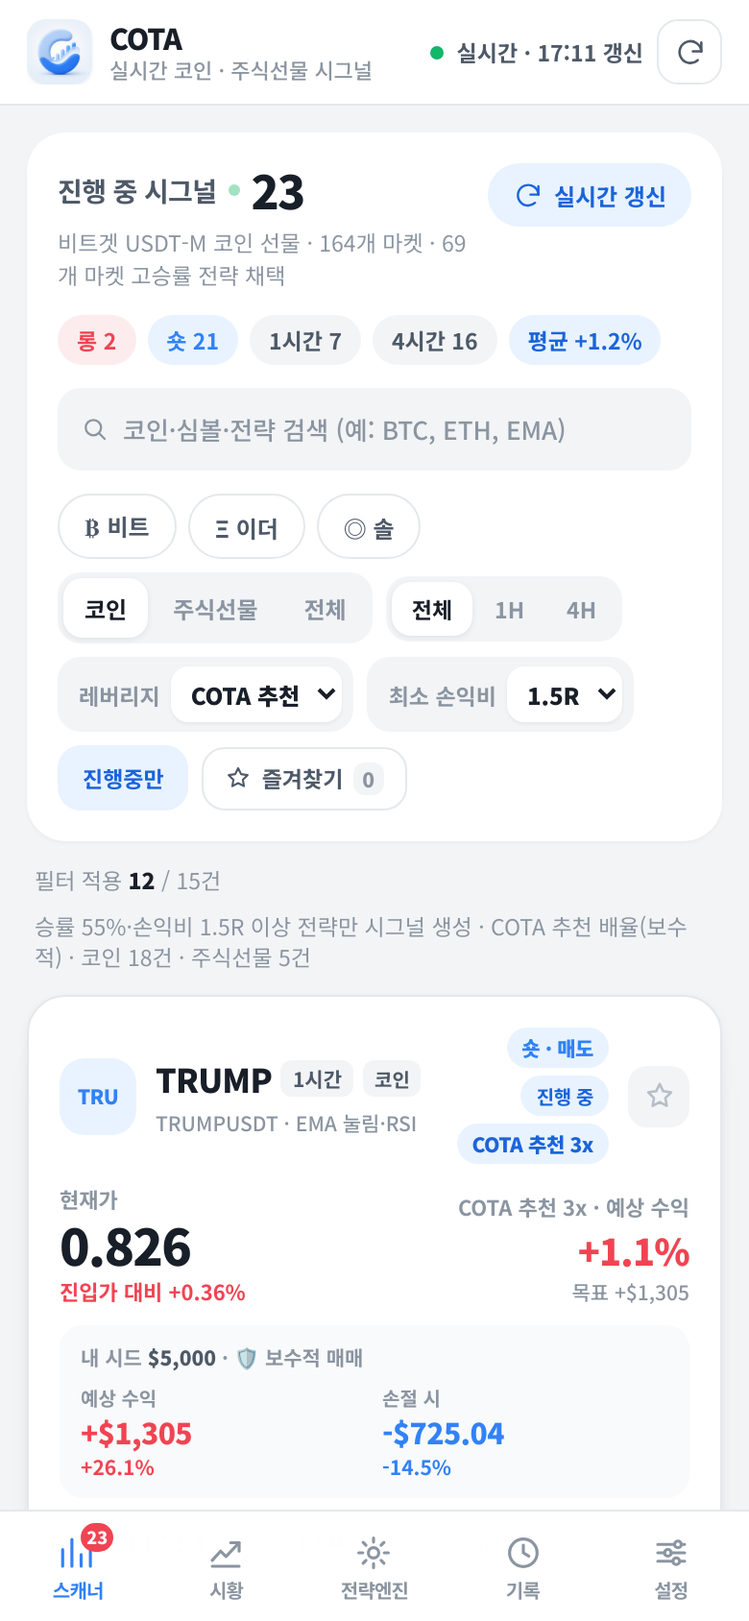
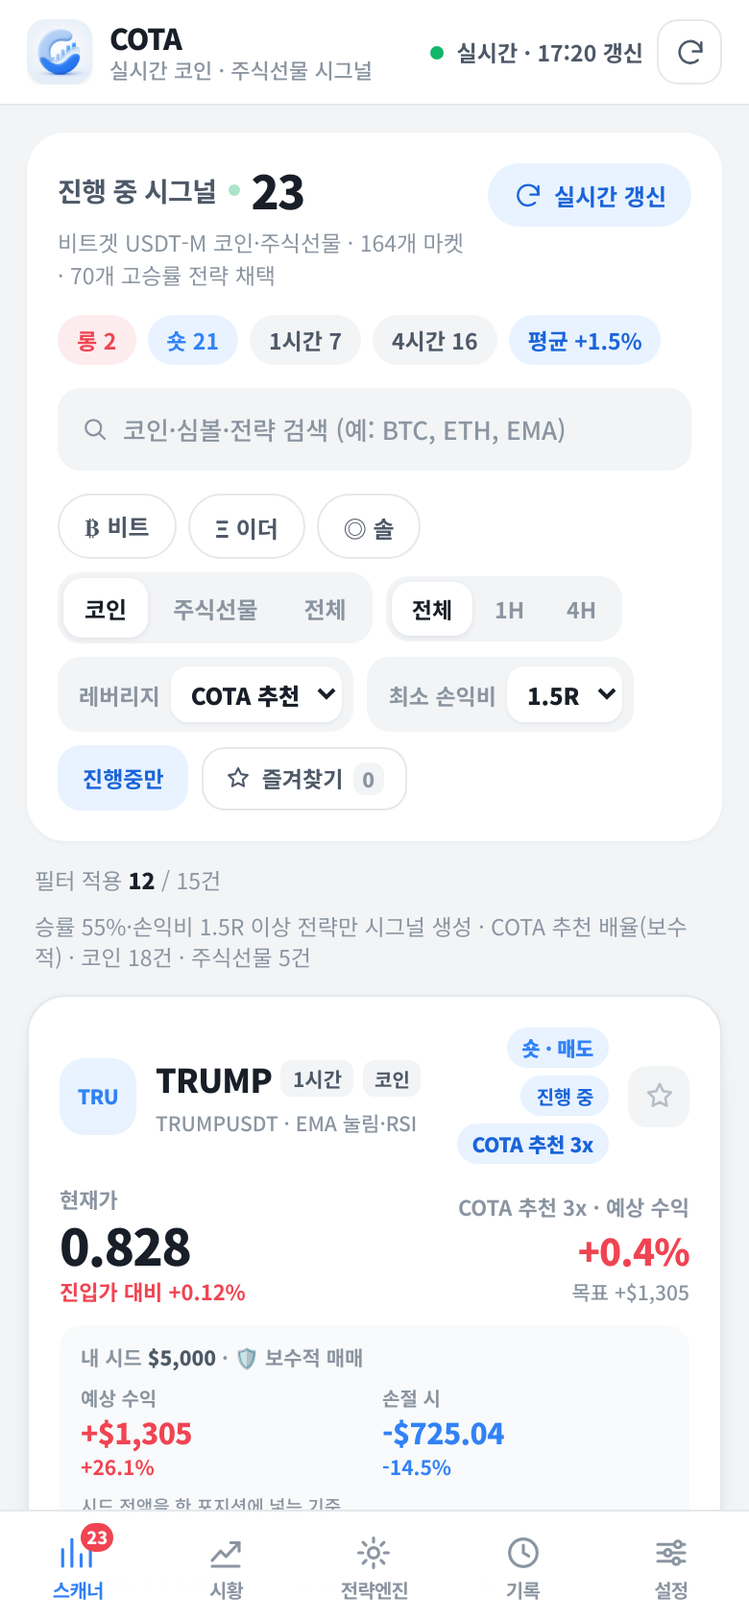
docs(cota): README·스크린샷 갱신 · 시드 손익 기준 안내 문구 추가

diff --git a/src/components/ScannerTab.tsx b/src/components/ScannerTab.tsx
@@ -151,7 +151,7 @@ export function ScannerTab({
               진행 중 시그널 <span className="dot-live" /> <b>{openSignals.length}</b>
             </div>
             <div className="summary-sub">
-              비트겟 USDT-M 코인 선물 · {marketCount}개 마켓 · {qualified}개 마켓 고승률 전략 채택
+              비트겟 USDT-M 코인·주식선물 · {marketCount}개 마켓 · {qualified}개 고승률 전략 채택
             </div>
           </div>
           <button className={`rescan ${scanning ? 'busy' : ''}`} onClick={onRescan} disabled={scanning}>

diff --git a/README.md b/README.md
@@ -1,243 +1,88 @@
-# 📈 비트겟 CRT 시그널 스캐너 (bitget-signal-scanner)
+# COTA — 실시간 트레이딩 시그널
 
-비트겟(Bitget) USDT-M 선물의 **코인 + 주식·ETF 선물 + FX·금·원자재·지수**를 실시간으로 스캔해 CRT·FVG·CISD 등
-6개 매매법으로 시그널을 만들고, 마켓별로 최근 성과가 가장 좋은 전략만 채택하는 적응형 스캐너입니다.
-FX·금 시그널은 **벤티지(Vantage) MT5 호가 오프셋**으로 보정해 실제 주문 화면과 같은 가격으로 볼 수 있습니다. 모든 수치는 비트겟 공개
-API의 실제 캔들로 계산하며 더미 데이터는 쓰지 않습니다.
+비트겟 USDT-M **코인 선물**을 실시간으로 스캔해 고승률 셋업만 골라 주는 모바일 우선 스캐너입니다.
+토스/토스증권 스타일의 라이트 UI, 전면 한글 라벨, 종목별 가격 가독성, 내 시드 기준 COTA 추천 레버리지를 제공합니다.
 
-- 스택: React 18 + TypeScript + Vite (외부 UI 라이브러리 없음, 아이콘·차트·공유카드 모두 직접 구현)
-- 테마: **다크 네온 트레이딩 터미널** — 딥 블랙/네이비 배경(`#050814`~`#0A0F24`) + 사이버 그리드 + 시안/바이올렛
-  오로라 글로우, 다크 글래스모피즘 패널, 네온 시안-에메랄드(롱)/마젠타-레드(숏)/일렉트릭 퍼플(강조)/앰버(EQ·별점)
-- 배포 경로 대응: `vite.config.ts`의 `base: './'` → `/bitget-signal-scanner/` 같은 서브패스에서도 자산 경로 유지
-
-## 📱 안드로이드 앱 (APK)
-
-| 항목 | 내용 |
+| 구분 | 링크 |
 | --- | --- |
+| 웹 (GitHub Pages) | <https://hw3238.github.io/bitget-signal-scanner/> |
 | APK 다운로드 | <https://github.com/hw3238/bitget-signal-scanner/releases/latest/download/bitget-crt-scanner.apk> |
-| 릴리즈 페이지 | <https://github.com/hw3238/bitget-signal-scanner/releases> |
-| 패키지 | `com.hw3238.bitgetscanner` · minSdk 22 / targetSdk 34 · debug 서명 |
+| 현재 버전 | **v1.2.0** (versionCode 3) |
 
-- Capacitor Android 프로젝트(`android/`)로 웹 빌드를 감싼 앱입니다. 앱은 실행할 때 `https://hw3238.github.io/bitget-signal-scanner/`
-  최신 배포본을 불러오므로(`capacitor.config.ts`의 `server.url`), 웹/전략/UI 수정은 **Pages 재배포만으로 앱에 즉시 반영**됩니다.
-- 로딩 실패 시 `assets/public`(내장 dist)로 폴백하고 "온라인 다시 시도" 안내를 띄웁니다.
-- **설정 탭 → 앱 · 업데이트**: 현재 버전·설치된 APK 버전, `🔄 업데이트 확인`(GitHub Releases API), `새로고침(캐시 갱신)`,
-  새 버전 발견 시 APK 다운로드. 새 릴리즈가 있으면 앱 상단에도 업데이트 배너가 뜹니다.
-- PNG 저장은 WebView 제약 때문에 네이티브 플러그인(`AppShellPlugin`)으로 갤러리(`Pictures/CRT-Scanner`)에 저장하고,
-  공유는 안드로이드 공유 시트로 전달합니다. 외부 링크는 시스템 브라우저에서 엽니다.
-- **🔔 핸드폰 알림**: 새 시그널이 감지되면 안드로이드 상단 알림바에 소리·진동으로 표시됩니다(아래 참고).
+## 주요 기능
 
-### 🔔 시그널 핸드폰 알림 (v1.1.0)
+- **스캐너** — 코인 선물 시그널(기본 코인 필터, 주식선물은 필터로 선택). 승률 55%·손익비 1.5R 이상 전략만 채택.
+- **카드** — `롱 · 매수 / 숏 · 매도`, `진입가 · 목표가 · 본전(EQ) · 손절가`, `손익비 1 : n`, `최근 승률`,
+  천단위 콤마 가격, 미니 캔들 차트, 진행률.
+- **COTA 추천 레버리지** — 손절 폭·최근 승률·손익비로 시그널마다 배율을 계산합니다.
+  - 보수적 매매: **2x ~ 5x** (손절 시 시드 손실을 12% 안쪽으로 억제)
+  - 공격적 매매: **10x ~ 25x** (`floor(80 / 손절폭)` 안전 마진을 넘지 않음)
+  - 카드에 `COTA 추천 Nx` 배지 + 내 시드 기준 **예상 수익(+)·손절 손실(-)** 표시
+  - 레버리지 선택: `COTA 추천`(기본) 또는 `5x · 10x · 20x · 50x` 고정
+- **첫 실행 온보딩** — 투자 시드($100/$500/$1,000/$5,000 프리셋)와 매매 성향(보수적/공격적)을 받아
+  `localStorage('cota.profile.v1')`에 저장합니다. 설정 탭 `💼 내 투자 프로필`에서 언제든 다시 설정할 수 있습니다.
+- **시황** — 코인·주식선물 상승/하락/거래대금/펀딩비 TOP.
+- **전략엔진** — 6개 매매법 실시간 백테스트 순위, 자동 교체 로그.
+- **기록** — 탐지 이후 실제 캔들로 목표 달성/손절 종료를 검증한 추적 기록.
+- **설정** — 🔔 핸드폰 알림(비트·이더·솔 / 주요 코인 / 전체 종목), ntfy 외부 푸시(`bgss-hw3238-9f4k2m`),
+  레버리지 모드·최소 손익비·자동 갱신, 앱 버전/업데이트.
+- **공유 카드** — 라이트 COTA 카드 PNG 저장/공유(진입가·목표가·손절가·손익비·COTA 추천 배지).
 
-- **네이티브 알림**: `AppShellPlugin`에 알림 채널 `bitget_signals`(중요도 `IMPORTANCE_HIGH`, 기본 알림음·진동 패턴)를 만들고
-  `notifySignal({ title, body, id })` 로 알림바에 표시합니다. 알림을 누르면 `PendingIntent` 로 앱이 열립니다.
-  Android 13+ 는 `POST_NOTIFICATIONS` 런타임 권한을 앱 첫 실행(알림 켜짐) 때 요청하고, 웹은 `Notification API` 로 폴백합니다.
-- **설정 탭 → 🔔 핸드폰 알림**: 알림 ON/OFF(기본 ON, localStorage 저장), 알림 대상(`주력 3종목` 금·유로·비트 / `FX·금 전체` /
-  `전체 종목`), **알림 테스트**(즉시 `[테스트] XAUUSD+ 1시간 롱 시그널 감지` 알림), 선택형 **ntfy 외부 푸시** 토픽 칸.
-- **ntfy**: 기본 전용 토픽 `bgss-hw3238-9f4k2m`(수정·비우기 가능). 값이 있으면 같은 알림을 `https://ntfy.sh/<토픽>` 으로도
-  `fetch` POST 합니다(제목은 `?title=` 파라미터). 비우면 호출하지 않습니다. 테스트 알림도 로컬 알림과 함께 전송합니다.
-- **중복 방지**: `symbol|tf|side|detectedAt` 키를 `localStorage`(`bgss.notified.v1`)에 기록해 60초 자동 갱신마다 같은 시그널이
-  다시 울리지 않게 하고, 앱을 켠 뒤 첫 스캔에 이미 떠 있던 시그널은 알림 없이 '이미 본 것'으로 기록합니다.
-
-### APK 빌드(로컬)
+## 개발
 
 ```bash
-# JDK 17 + Android SDK(platforms;android-34, build-tools;34.0.0) 필요
-export JAVA_HOME=<jdk17> ANDROID_HOME=<android-sdk>
+npm install
+npm run dev        # http://127.0.0.1:5173
+npm run build      # tsc + vite build → dist/
+```
+
+### 검증 스크립트
+
+```bash
+npm run build
+node scripts/toss-ui-check.mjs      # 5탭·코인 집중·한글화·가격·온보딩·COTA 추천·공유카드 (스크린샷 18~22)
+node scripts/notify-check.mjs       # 알림 로직 + 설정 UI
+node scripts/favorites-check.mjs    # 즐겨찾기·검색·더보기·기록
+node scripts/pages-check.mjs        # /bitget-signal-scanner/ 서브패스 배포 경로
+node scripts/live-check.mjs         # 라이브 Pages 검증
+node scripts/live-notify-check.mjs  # 라이브 알림 UI 검증
+```
+
+### APK 빌드 (로컬)
+
+```bash
+# JDK 17 + Android SDK(platforms;android-34, build-tools;34.0.0)
 npm run build && npx cap sync android
 cd android && ./gradlew assembleDebug   # → app/build/outputs/apk/debug/app-debug.apk
 ```
 
-> GitHub App 연결에는 `workflows` 권한이 없어 `.github/workflows/` 푸시가 거부됩니다. CI 빌드가 필요하면 저장소
-> Settings에서 Actions 권한을 켜고 워크플로를 직접 추가하세요.
-
 ### 새 버전 배포 순서
 
-1. `src/lib/update.ts`의 `APP_VERSION`, `package.json`의 `version`, `android/app/build.gradle`의 `versionCode`·`versionName`을 올립니다.
+1. `src/lib/update.ts`의 `APP_VERSION`, `package.json`의 `version`, `android/app/build.gradle`의
+   `versionCode`·`versionName`을 올립니다.
 2. `npm run build` → `npx cap sync android` → `cd android && ./gradlew assembleDebug`.
-3. `dist/`를 `gh-pages` 브랜치에 게시(Pages 반영)하고 앱 APK를 새 태그 릴리즈에 첨부합니다.
-   설치된 앱의 **설정 → 앱 · 업데이트**가 GitHub Releases API로 새 버전을 감지해 다운로드 버튼을 띄웁니다.
+3. `./scripts/deploy-gh-pages.sh`로 `dist/`를 `gh-pages` 브랜치에 게시합니다.
+4. APK를 새 태그 릴리즈에 `bitget-crt-scanner.apk` 이름으로 첨부합니다(파일명 유지 → latest 다운로드 URL 호환).
 
-## 실행
+## 구조
 
-```bash
-export PATH="$HOME/.local/node/node-v22.14.0-linux-x64/bin:$PATH"
-npm install
-npm run dev      # http://127.0.0.1:5173
-npm run build    # tsc + vite build → dist/
-npm run preview  # http://127.0.0.1:4173
+```
+src/
+  components/   SignalCard · ScannerTab · MarketTab · EngineTab · HistoryTab · SettingsTab
+                ShareModal · OnboardingModal · MiniCandles · BottomNav · shareCard(canvas)
+  engine/       backtest · strategies · indicators · universe(코인 주력+주식 워치리스트)
+  hooks/        useScanner · useFavorites
+  lib/          format(가격·손익비) · profile(시드·추천 레버리지) · notify · storage · update · native
+  api/          bitget(공개 USDT-M 계약·티커·캔들)
 ```
 
-## 화면
+## 데이터
 
-하단 내비게이션 6탭: **스캐너 | FX | 시황 | 전략엔진 | 기록 | 설정** (390px 폭에서도 겹침·줄바꿈 없이 한 줄).
-스캐너·FX 탭 아이콘에는 현재 활성(진행중) 시그널 수 배지가 붙습니다.
+- 비트겟 공개 API: `GET /api/v2/mix/market/contracts|tickers|candles?productType=USDT-FUTURES`
+- 1H/4H 200봉 실데이터를 최근 60봉 기준으로 백테스트해 승률·손익비 미달 전략은 즉시 교체합니다.
 
-| 탭 | 내용 |
-| --- | --- |
-| 스캐너 | 코인·주식선물 전용 — TS 발생 종목 카운터(롱/숏/1시간/4시간), **₿ 비트 퀵 필터**, **종목·심볼·전략 검색**, 전체·코인·주식선물 필터, 레버리지(5/10/20/50x), 최소 손익비(1.2~2.5R), 진행중/종료, **⭐ 즐겨찾기 모아보기**, 12건씩 펼치는 **이전 시그널 더보기**, 시그널 카드(⭐ 즐겨찾기·미니 캔들 차트·목표/EQ/진입/무효·진행 게이지·전략 승률) |
-| FX | FX·금·원자재·지수 + **비트코인(BTCUSD+)** 전용 — 발송 시그널 수·롱/숏/1H/4H·**선택 랏 합계 손익**, 검색, **🥇 금 · 💶 유로 · ₿ 비트 퀵 필터**, 타임프레임(전체/1H/4H), **랏(Lot) 선택기(0.01~1.00)**, 최소 손익비, 진행중/종료, ⭐ 즐겨찾기, **Vantage 호가 보정 미니 바**, 카드에 `0.10 Lot 수익 +$…`·목표 `+$…`·무효 `-$…`·`1포인트 $…` 표시 |
-| 시황 | 코인/주식선물/**FX·금** 상승·하락 TOP, 거래대금 TOP, 펀딩비 극단, 상승·하락 종목 수·평균 펀딩비·24h 거래대금 |
-| 전략엔진 | 6개 매매법 실시간 순위(채택 마켓·채택 승률·표본·손익비·기대 수익), 자동 교체 로그, 백테스트 재실행 |
-| 기록 | 탐지된 시그널의 적중/무효/진행 추적(최대 400건 보관), **종목·전략 검색**, 15건씩 펼치는 **이전 기록 더보기**, 실현·미실현 레버리지 수익률 |
-| 설정 | 레버리지·**FX 탭 랏(Lot)**·최소 손익비·자동 갱신 주기(30/60/120초·꺼짐)·알림음, **FX·금 종목별 벤티지 호가 보정 표**, **Twelve Data API 키(선택)**, 엔진 기준, 데이터 초기화, **앱 버전·업데이트 확인·캐시 갱신** |
+## 주의
 
-시그널 카드를 탭하면 **다크 네온 공유 카드**(캔버스 렌더링)가 열리고 PNG로 저장하거나 Web Share로 보낼 수
-있습니다.
-
-### ⭐ 즐겨찾기 · 검색 · 이전 시그널 더보기
-
-- 카드 우측 상단 **⭐ 버튼**(공유 모달 안에도 있음)으로 시그널을 찜합니다. 버튼 클릭은 `stopPropagation()`으로
-  공유 카드를 열지 않고 즉시 토글되며, 활성 상태는 네온 골드(`#FFD166`) 글로우로 표시됩니다.
-- 즐겨찾기는 `localStorage`의 `bgss.favorites.v1`에 저장되어 새로고침·60초 자동 갱신 후에도 유지됩니다. 키는
-  `심볼|타임프레임|방향|감지봉 시각`이라 스캔이 반복돼도 같은 시그널을 가리킵니다.
-- **⭐ 즐겨찾기 (N)** 필터를 켜면 진행중/종료·자산·타임프레임·최소 손익비와 무관하게 찜한 시그널을 모두 모아
-  보여줍니다. 현재 스캔에 살아 있으면 최신 현재가·레버리지 수익률·진행도로 갱신되고, 스캔에서 사라진 시그널은
-  마지막 스냅샷 카드(보관된 스냅샷)로 남아 확인·해제할 수 있습니다.
-- 검색창은 심볼(`BTCUSDT`)·종목명·전략명(`EMA`, `CRT`, `SuperTrend`)·태그를 대소문자 구분 없이 실시간으로
-  걸러주며, 공백으로 여러 단어를 넣으면 AND 조건입니다. 입력값이 있으면 우측 `×`로 즉시 초기화됩니다.
-- 채택 전략의 시그널 중 **진행중(최근 10봉)** + **종료(적중/무효, 최근 160봉)** 을 마켓당 최대 18건까지 모아,
-  스캐너는 12건씩 `이전 시그널 더보기 (+N건)`, 기록 탭은 15건씩 `이전 기록 더보기 (+N건)`으로 계속 펼쳐 봅니다.
-
-## 데이터 소스 (Bitget 공개 API · CORS 허용)
-
-| 용도 | 엔드포인트 |
-| --- | --- |
-| 계약 목록(890개) | `GET /api/v2/mix/market/contracts?productType=USDT-FUTURES` |
-| 실시간 티커 | `GET /api/v2/mix/market/tickers?productType=USDT-FUTURES` |
-| 캔들 200봉 | `GET /api/v2/mix/market/candles?productType=USDT-FUTURES&symbol=..&granularity=1H\|4H&limit=200` |
-
-- `granularity`는 실제 호출로 검증한 대문자 포맷(`1H`/`4H`)만 사용합니다.
-- 계약의 `isRwa` 플래그로 주식·ETF 선물을 구분하고, 원자재·금속·외환·지수(XAU, XAG, CL, COPPER, EURUSD,
-  NDX100, HSI …)는 `fx` 카테고리로 모아 주식선물 목록과 섞지 않습니다. 표기 소수점은 계약의 `pricePlace`를 씁니다.
-- 스캔 유니버스 = **주력 3종목(XAUUSDT·EURUSDUSDT·BTCUSDT, 항상 맨 앞)** + FX·금·원자재·지수 21종목 +
-  주식선물 주요 43종목 + 거래대금 상위 코인 30종목, 각 1H/4H → 마켓 약 95개·캔들 190건. 요청은 워커 3개·간격
-  165ms로 제한하고 429 발생 시 지수 백오프로 재시도합니다. 캔들 갱신 주기 기본 60초.
-
-## FX·금 스캐너 · Vantage 호가 보정
-
-### 스캔 심볼 (벤티지 MT5 표기)
-
-| 비트겟 계약 | 표기 | 비고 |
-| --- | --- | --- |
-| `XAUUSDT` | **XAUUSD+** | 금 현물 프록시 (주력) |
-| `EURUSDUSDT` | **EURUSD+** | 유로/달러 (주력) |
-| `BTCUSDT` | **BTCUSD+** (스캐너 탭은 코인 `BTC`) | 비트코인 (주력 · FX 탭에서도 표시) |
-| `XAGUSDT` · `XPTUSDT` · `XPDUSDT` | `XAGUSD+` · `XPTUSD+` · `XPDUSD+` | 은·백금·팔라듐 |
-| `XAUTUSDT` · `PAXGUSDT` | `XAUT+` · `PAXG+` | 금 토큰(Tether/Paxos Gold) |
-| `EURUSD` · `GBPUSD` · `USDJPY` · `USDBRL` | `EURUSD+` · `GBPUSD+` · `USDJPY+` · `USDBRL+` | FX |
-| `CLUSDT` · `BZUSDT` · `NATGASUSDT` · `COPPERUSDT` | `USOIL+` · `UKOIL+` · `NATGAS+` · `COPPER+` | 원자재 |
-| `DXYUSDT` | `DXY+` | 달러 인덱스 |
-| `NDX100` · `SP500` · `JP225` · `HSI` · `KR200` | `NAS100+` · `US500+` · `JP225+` · `HK50+` · `KR200+` | 지수 |
-
-- **FX 탭**에서만 이 카테고리를 모아 봅니다(스캐너 탭은 코인·주식선물 전용). FX 카드는 `pricePlace` 기준 고정 소수점
-  (EURUSD 4자리, USDJPY·XAUUSD 2자리, 지수 0~2자리)으로 표기합니다.
-- **주력 퀵 필터**: FX 탭의 🥇 금(`XAU`) · 💶 유로(`EURUSD`) · ₿ 비트(`BTCUSD`), 스캐너 탭의 ₿ 비트(`BTC`). 누르면
-  검색어·필터가 한 번에 적용되고(진행중 시그널이 없으면 종료 셋업까지 표시) 다시 누르면 해제됩니다.
-- **비트코인은 한 번만 스캔해 두 탭이 함께 씁니다.** 스캐너 탭은 비트겟 `BTCUSDT` 캔들·시그널을 배수(x) 기준 `BTC`
-  카드로, FX 탭은 같은 데이터를 `BTCUSD+`(벤티지 호가 보정 + 랏 달러 손익) 카드로 보여줍니다 — 추가 API 호출 없음
-  (`src/lib/fxview.ts`).
-
-### 랏(Lot) 손익 — FX 탭은 배수(x) 대신 계약 크기 기준 달러
-
-FX 탭의 카드·공유 카드에는 `레버리지 10x` 같은 배수 표현이 나오지 않고, 선택한 랏과 **MT5·Vantage 표준 계약
-크기(Contract Size)** 로 계산한 달러 손익이 표시됩니다. 랏 프리셋은 `0.01 / 0.05 / 0.10(기본) / 0.20 / 0.50 / 1.00`
-이며 `localStorage`(`bgss.settings.v1.fxLot`)에 저장됩니다.
-
-| 종목군 | 1 Lot 계약 크기 | 달러 손익식 |
-| --- | --- | --- |
-| `XAUUSD+` `XAUT+` `PAXG+` `XPTUSD+` `XPDUSD+` | 100 oz | 가격차 × 100 × lot |
-| `XAGUSD+` | 5,000 oz | 가격차 × 5,000 × lot |
-| `COPPER+` | 25,000 lbs | 가격차 × 25,000 × lot |
-| `USOIL+` `UKOIL+` | 1,000 배럴 | 가격차 × 1,000 × lot |
-| `NATGAS+` | 10,000 MMBtu | 가격차 × 10,000 × lot |
-| `EURUSD+` `GBPUSD+` (USD 견적) | 100,000 | 가격차 × 100,000 × lot |
-| `USDJPY+` `USDBRL+` (USD가 기초) · `EURJPY+` `GBPJPY+` (JPY 견적) | 100,000 | (가격차 ÷ 청산가) × 100,000 × lot |
-| `NAS100+` `US500+` `JP225+` `HK50+` `KR200+` `DXY+` | 1 계약 | 가격차(포인트) × 1 × lot (1p = $1) |
-| `BTCUSD+` `BTCUSD` `BTC` | 1 BTC | 가격차 × 1 × lot (예: $1,000 이동 × 0.10 Lot = $100.00) |
-
-- 계산은 `src/utils/lot.ts`의 `lotSpec()`/`lotCalc()` 하나로 카드·공유 카드가 함께 씁니다.
-- 카드 우측 상단 `0.10 Lot 수익 +$125.00`, 목표/무효 아래 `+$…`/`-$…`, 하단 `0.10 Lot · 1포인트 $0.10 · 목표 250
-  포인트 · 손절 85 포인트 · 1 Lot = 100 oz` 스트립으로 계약 크기와 핍 가치를 함께 보여줍니다.
-- 다크 공유 카드(`ShareCardModal` → `drawShareCard(..., lot)`)도 FX 시그널이면 상단 `0.10 Lot` 배지, `0.10 Lot
-  +$125.00`, 목표/반익 EQ/무효 박스의 달러 손익, 푸터 계약 크기로 렌더링합니다.
-
-### 벤티지 호가 보정(오프셋)
-
-- FX 탭 상단 미니 바 또는 **설정 → FX·금 · 벤티지 호가 보정**에서 종목별 오프셋을 입력합니다.
-  목록 맨 위는 주력 3종목(`XAUUSD+`, `EURUSD+`, `BTCUSD+` — 저장 키는 기존 `BTC`)으로 고정되어 있습니다.
-  `BTCUSD+` 카드·공유 카드는 이 `★ BTCUSD+` 입력을 그대로 씁니다(`src/lib/offset.ts`의 별칭).
-- 입력 즉시 카드와 다크 공유 카드의 **현재가·진입가·목표가·EQ·무효가**가 같은 값만큼 이동합니다. 가격 차이의
-  비율인 **손익비·R배수는 그대로**이고, 수익률(%)만 보정된 진입가 기준으로 다시 계산됩니다.
-- 설정 탭에서는 `MT5가 입력` 칸에 벤티지 화면의 현재가를 그대로 넣으면 `오프셋 = MT5가 − 비트겟가`로 계산됩니다.
-- 값은 `localStorage`(`bgss.settings.v1.fxOffsets`)에 저장되어 새로고침·자동 갱신 후에도 유지되고, `전체 초기화`로
-  한 번에 지울 수 있습니다.
-
-### Twelve Data 보조 페어 (선택)
-
-- 설정 → **Twelve Data**에 무료 API 키를 넣으면 `AUD/USD`·`USD/CAD`·`USD/CHF`·`NZD/USD`·`EUR/JPY`·`GBP/JPY`를
-  1H/4H로 함께 스캔합니다. 키가 비어 있으면 호출하지 않고 비트겟 실시간 FX·금 피드만 사용합니다.
-- 무료 플랜 분당 8회 제한을 지키기 위해 요청을 **7.8초 간격·60초 창 8회**로 직렬화하고, 1H 캔들 1회만 받아
-  4H를 로컬 리샘플링하며, 페어당 5분 캐시를 둡니다. 보조 페어 스캔은 본 스캔을 막지 않고 뒤에서 진행됩니다.
-
-## 엔진
-
-### 전략 6종 (`src/engine/strategies.ts`)
-
-1. **CRT + FVG + CISD** — 20봉 레인지 스윕 + FVG/구조전환 확인, 진입은 레인지 바깥 45% 구간에서만
-2. **Liquidity Sweep + Order Block** — 30봉 유동성 스윕 후 오더블록 리테스트, EMA50 추세 정렬
-3. **EMA 20/50 Pullback + RSI Divergence** — 추세 방향 EMA20 눌림 + RSI 다이버전스/회복
-4. **Bollinger Squeeze + Volume Breakout** — 밴드 폭 하위 30% 수축 후 거래량 1.35배 돌파
-5. **EQ Mean Reversion + Engulfing** — 30봉 스윙 EQ(0.5)에서 장악형 반전
-6. **SuperTrend / Donchian Momentum** — SuperTrend 전환 또는 돈치안 20 돌파
-
-### 백테스트·판정
-
-- 각 마켓의 실제 캔들 200봉에 6개 전략을 전부 돌려 1건씩 트레이드로 기록(중복 진입 방지, 최대 42봉 판정).
-- 목표/무효 도달 여부로 적중·무효 판정, 같은 봉에서 동시 도달 시 **무효 우선**(보수적).
-- 워크포워드: 과거 구간(최근 60봉 이전) 1위 전략을 최근 60봉에서 다시 채점 → 승률 55%·손익비 1.5R·표본
-  2건을 못 넘으면 **현재 최고 성과 전략으로 즉시 교체**하고 교체 로그(시각·마켓·이전/신규 전략·사유)를 남깁니다.
-- 시그널은 채택 전략이 최근 10봉 안에 낸 셋업만 노출하며, 진입 손익비가 사용자가 정한 최소 손익비 미만이면 제외합니다.
-- 코인·주식선물 카드의 레버리지 수익률 = (가격 변동 ÷ 진입가) × 배율. FX 카드는 배수 대신 랏(Lot) 달러 손익. 기록
-  탭의 누적 수익률은 무효가까지 거리(%)를 가중해 합산합니다.
-
-## 검증
-
-```bash
-npm run build
-node scripts/lot-check.mjs    # 랏 계약 크기·핍 가치·비례 단위 검증(esbuild로 src/utils/lot.ts 번들 후 24종목 케이스 · BTCUSD+ 1 Lot = 1 BTC 포함)
-LD_LIBRARY_PATH=/workspace/.local/sysroot/root/usr/lib/x86_64-linux-gnu \
-PLAYWRIGHT_BROWSERS_PATH=$HOME/.cache/ms-playwright node scripts/capture.mjs      # 390×844 + 1280×800, 콘솔 에러 수집, PNG 저장 검증
-LD_LIBRARY_PATH=/workspace/.local/sysroot/root/usr/lib/x86_64-linux-gnu \
-PLAYWRIGHT_BROWSERS_PATH=$HOME/.cache/ms-playwright node scripts/fx-lot-check.mjs  # 6탭 레이아웃·FX 탭 랏 표시·FX 탭 BTCUSD+ 랏·호가 보정 연동·0.01↔0.10↔1.00 비례·공유 카드·소수점/호가 보정/시황/설정 회귀
-LD_LIBRARY_PATH=/workspace/.local/sysroot/root/usr/lib/x86_64-linux-gnu \
-PLAYWRIGHT_BROWSERS_PATH=$HOME/.cache/ms-playwright node scripts/pages-check.mjs    # /bitget-signal-scanner/ 서브패스 검증
-node scripts/favorites-check.mjs                                                  # ⭐ 즐겨찾기·검색·더보기·새로고침 유지·보관 스냅샷 검증
-LD_LIBRARY_PATH=/workspace/.deps/root/usr/lib/x86_64-linux-gnu \
-node scripts/notify-check.mjs                                                      # 🔔 알림 로직(중복 방지·대상 필터) + 설정 UI·테스트 알림·ntfy 전송·과거 시그널 미알림·새로고침 중복 0건
-node scripts/live-check.mjs                                                        # 라이브 Pages 반영 확인
-LD_LIBRARY_PATH=/workspace/.local/sysroot/root/usr/lib/x86_64-linux-gnu \
-PLAYWRIGHT_BROWSERS_PATH=$HOME/.cache/ms-playwright node scripts/live-btc-check.mjs  # 라이브 FX 탭 BTCUSD+ 랏·퀵 필터·호가 보정 칩 집중 검증
-```
-
-결과 스크린샷은 `docs/screens/`에 저장됩니다(`01-scanner.png`, `02-dark-card.png`, `03-strategy-engine.png`,
-`04-market.png`, `05-history.png`, `06-desktop.png`, `07-pages-subpath.png`, `08-settings.png`,
-`09-live-pages.png`, `02-dark-card-export.png`). FX 탭·랏 화면은 `14-fx-tab-lot.png`(FX 탭 + 랏 선택기),
-`14-fx-card-lot.png`(카드의 `0.10 Lot 수익`·`+$` 손익), `14-fx-share-lot.png`(FX 공유 카드 랏 표시),
-`14-fx-tab-lot-desktop.png`(데스크톱), `13-settings-fx.png`(종목별 보정 표), `15-fx-btc-lot.png`(FX 탭 `BTCUSD+` 카드 · `0.10 Lot 수익` · `1 Lot = 1 BTC`), `15-live-fx-btc.png`(라이브 Pages 동일 화면),
-`16-settings-notify.png`(설정 탭 🔔 핸드폰 알림 — 알림 토글·대상·테스트·ntfy 토픽)입니다.
-
-## 배포 (GitHub Pages)
-
-- 라이브: **https://hw3238.github.io/bitget-signal-scanner/** (브랜치 `gh-pages` / 루트, HTTP 200·실데이터 렌더링 확인)
-- 소스: https://github.com/hw3238/bitget-signal-scanner (`main`)
-- 재배포는 아래 스크립트로 `dist` 내용을 `gh-pages` 루트에 올립니다.
-
-```bash
-./scripts/deploy-gh-pages.sh hw3238/bitget-signal-scanner
-```
-
-## 면책
-
-정보 도구입니다. 투자 권유가 아니며 표시된 승률·수익률은 과거 데이터 통계로 미래 성과를 보장하지 않습니다.
-레버리지 거래는 원금 전액을 잃을 수 있습니다.
+COTA는 비트겟 공개 시세를 계산해 과거 통계를 보여주는 **정보 도구**입니다. 투자 권유가 아니며,
+표시된 승률·수익률은 과거 데이터 기준으로 미래 성과를 보장하지 않습니다. 레버리지 거래는 원금 전액을
+잃을 수 있습니다. 카드의 예상 손익은 시드 전액을 한 포지션에 넣는 기준의 단순 계산입니다.
